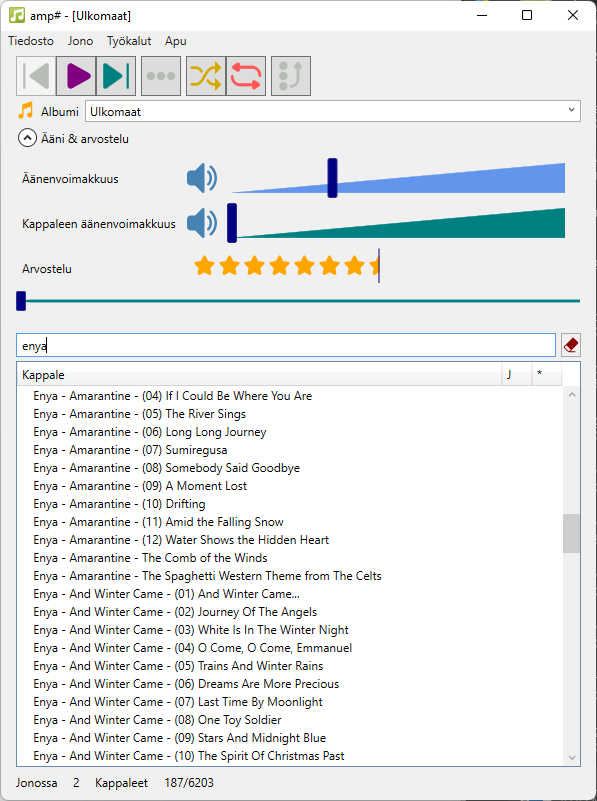
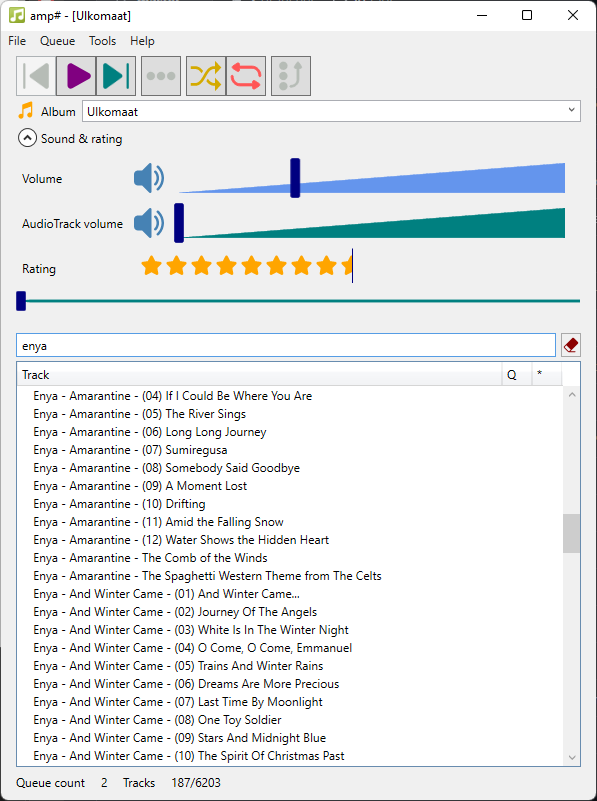
Update main window screen shots.

diff --git a/Help/amp-en/docs/main_window.md b/Help/amp-en/docs/main_window.md
@@ -1,9 +1,60 @@
 # The amp# main window
 
-The main window consists of the menu, playback controls album selector, volume, rating, position, search, track list and status bar.
+The main window consists of the menu, playback controls album selector, volume, rating, position, search, track list, audio visualization and status bar.
 
 ![image](img/main_window1.png)
 
-## The file menu
+## The menu
 
+### The File menu
+#### Add music files...
+* **Add files to album...**: This opens a select file dialog with multiple selection to the current album.
 
+* **Add folder contents to album...**: This opens a select folder dialog to select a folder which music files to recursively add to the current album.
+
+#### Album
+This opens a dialog to [manage the albums](album.md) within the program database.
+
+#### Track information
+Opens a dialog to [display and manage](track_info.md) the currently selected track metadata (IDvX, etc). Also a track image can be set from track information. Keyboard shortcut: <kbd>F4</kbd>.
+
+#### Quit
+Exists the program. Keyboard shortcut: <kbd>Ctrl</kbd>+<kbd>Q</kbd> or <kbd>⌘</kbd>+<kbd>Q</kbd>
+
+### The queue menu
+
+#### Save current queue
+Opens a dialog to allow user to specify a name for the current queue or alternate queue to save so it can be loaded and played back again when the user wishes to do so. Keyboard shortcut: <kbd>Ctrl</kbd>+<kbd>S</kbd> or <kbd>⌘</kbd>+<kbd>S</kbd>.
+
+#### Saved queues
+Opens a dialog where [saved queue snapshots](saved_queues_dialog.md) can be loaded, edited and deleted. Keyboard shortcut: <kbd>F3</kbd>.
+
+#### Clear queue
+Clears the queued songs from the current album. Keyboard shortcut: <kbd>Ctrl</kbd>+<kbd>D</kbd> or <kbd>⌘</kbd>+<kbd>D</kbd>.
+
+#### Scramble queue
+Re-randomizes the current queue playback order. If two or more queued items are selected, only the selection is re-randomized. Keyboard shortcut: <kbd>F7</kbd>.
+
+### The Tools menu
+
+#### Settings
+Opens the [settings dialog](settings.md) for various software settings.
+
+#### Color settings
+Opens a [dialog where the software colors can be set](color_settings.md).
+
+#### Update track metadata
+Goes through all the tracks in all albums and reads the track file metadata and updates it to the corresponding record of software. This tool is designed to be used if the track metadata is modified elsewhere as the amp# only reads the metadata tags once.
+
+### The Help menu
+
+#### About
+Displays an about dialog for version and license information of the application.
+
+#### Help
+This help is displayed via web browser. Keyboard shortcut: <kbd>F1</kbd>.
+
+#### Check for new version
+Checks if a new version of the amp# software is available for download and:
+* If one is available the user is displayed a dialog with changes compared to the current version and a clickable link to the download web page.
+* If no new version is available a dialog informing about that is displayed.
